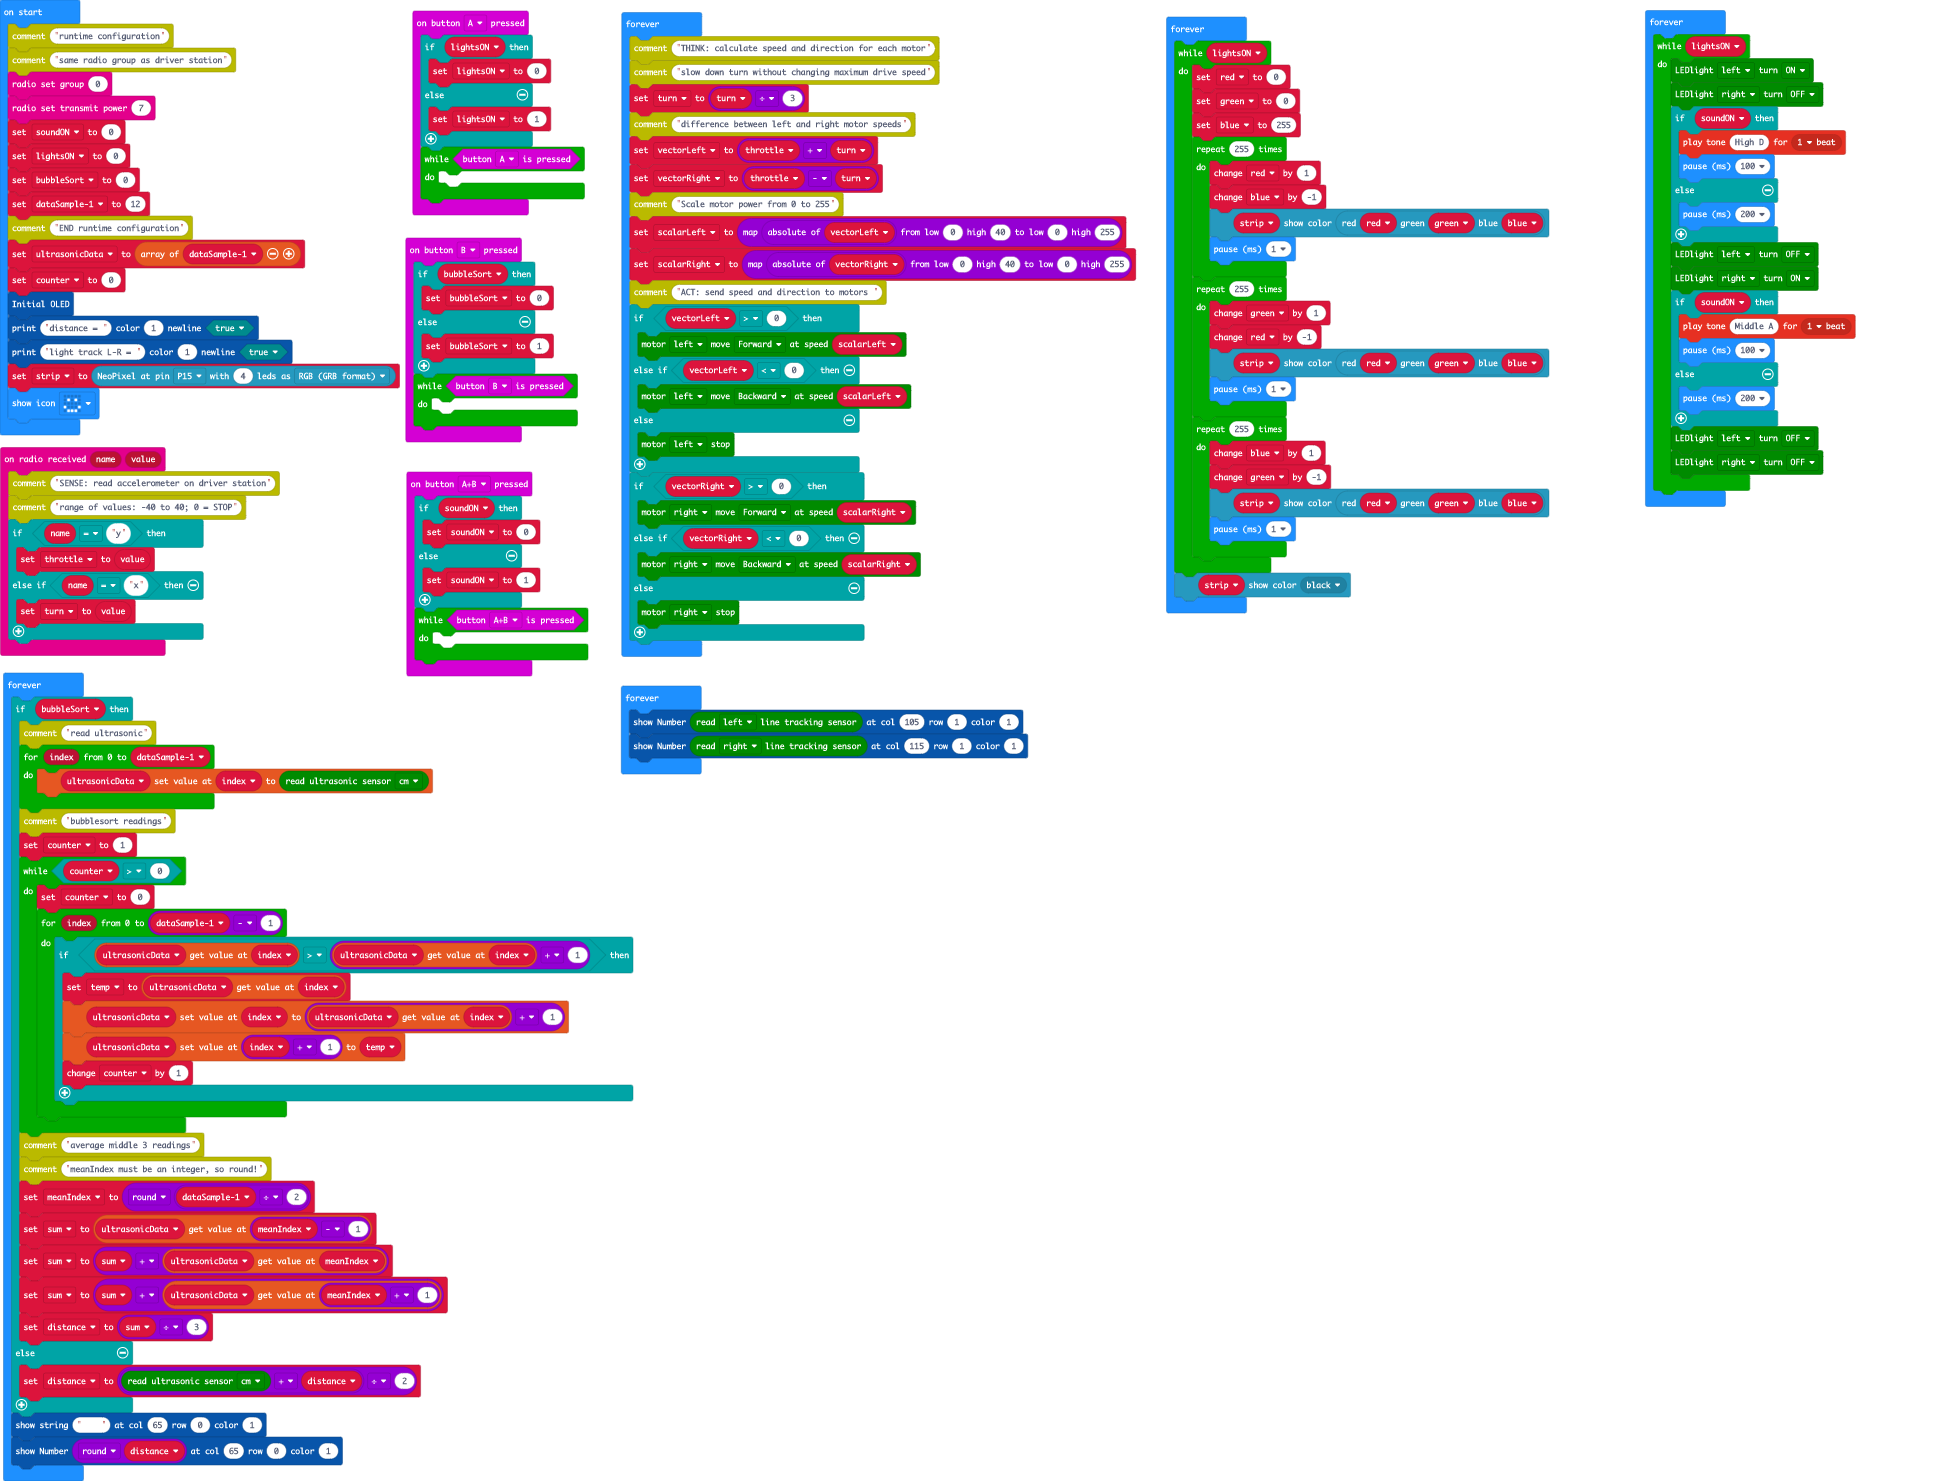
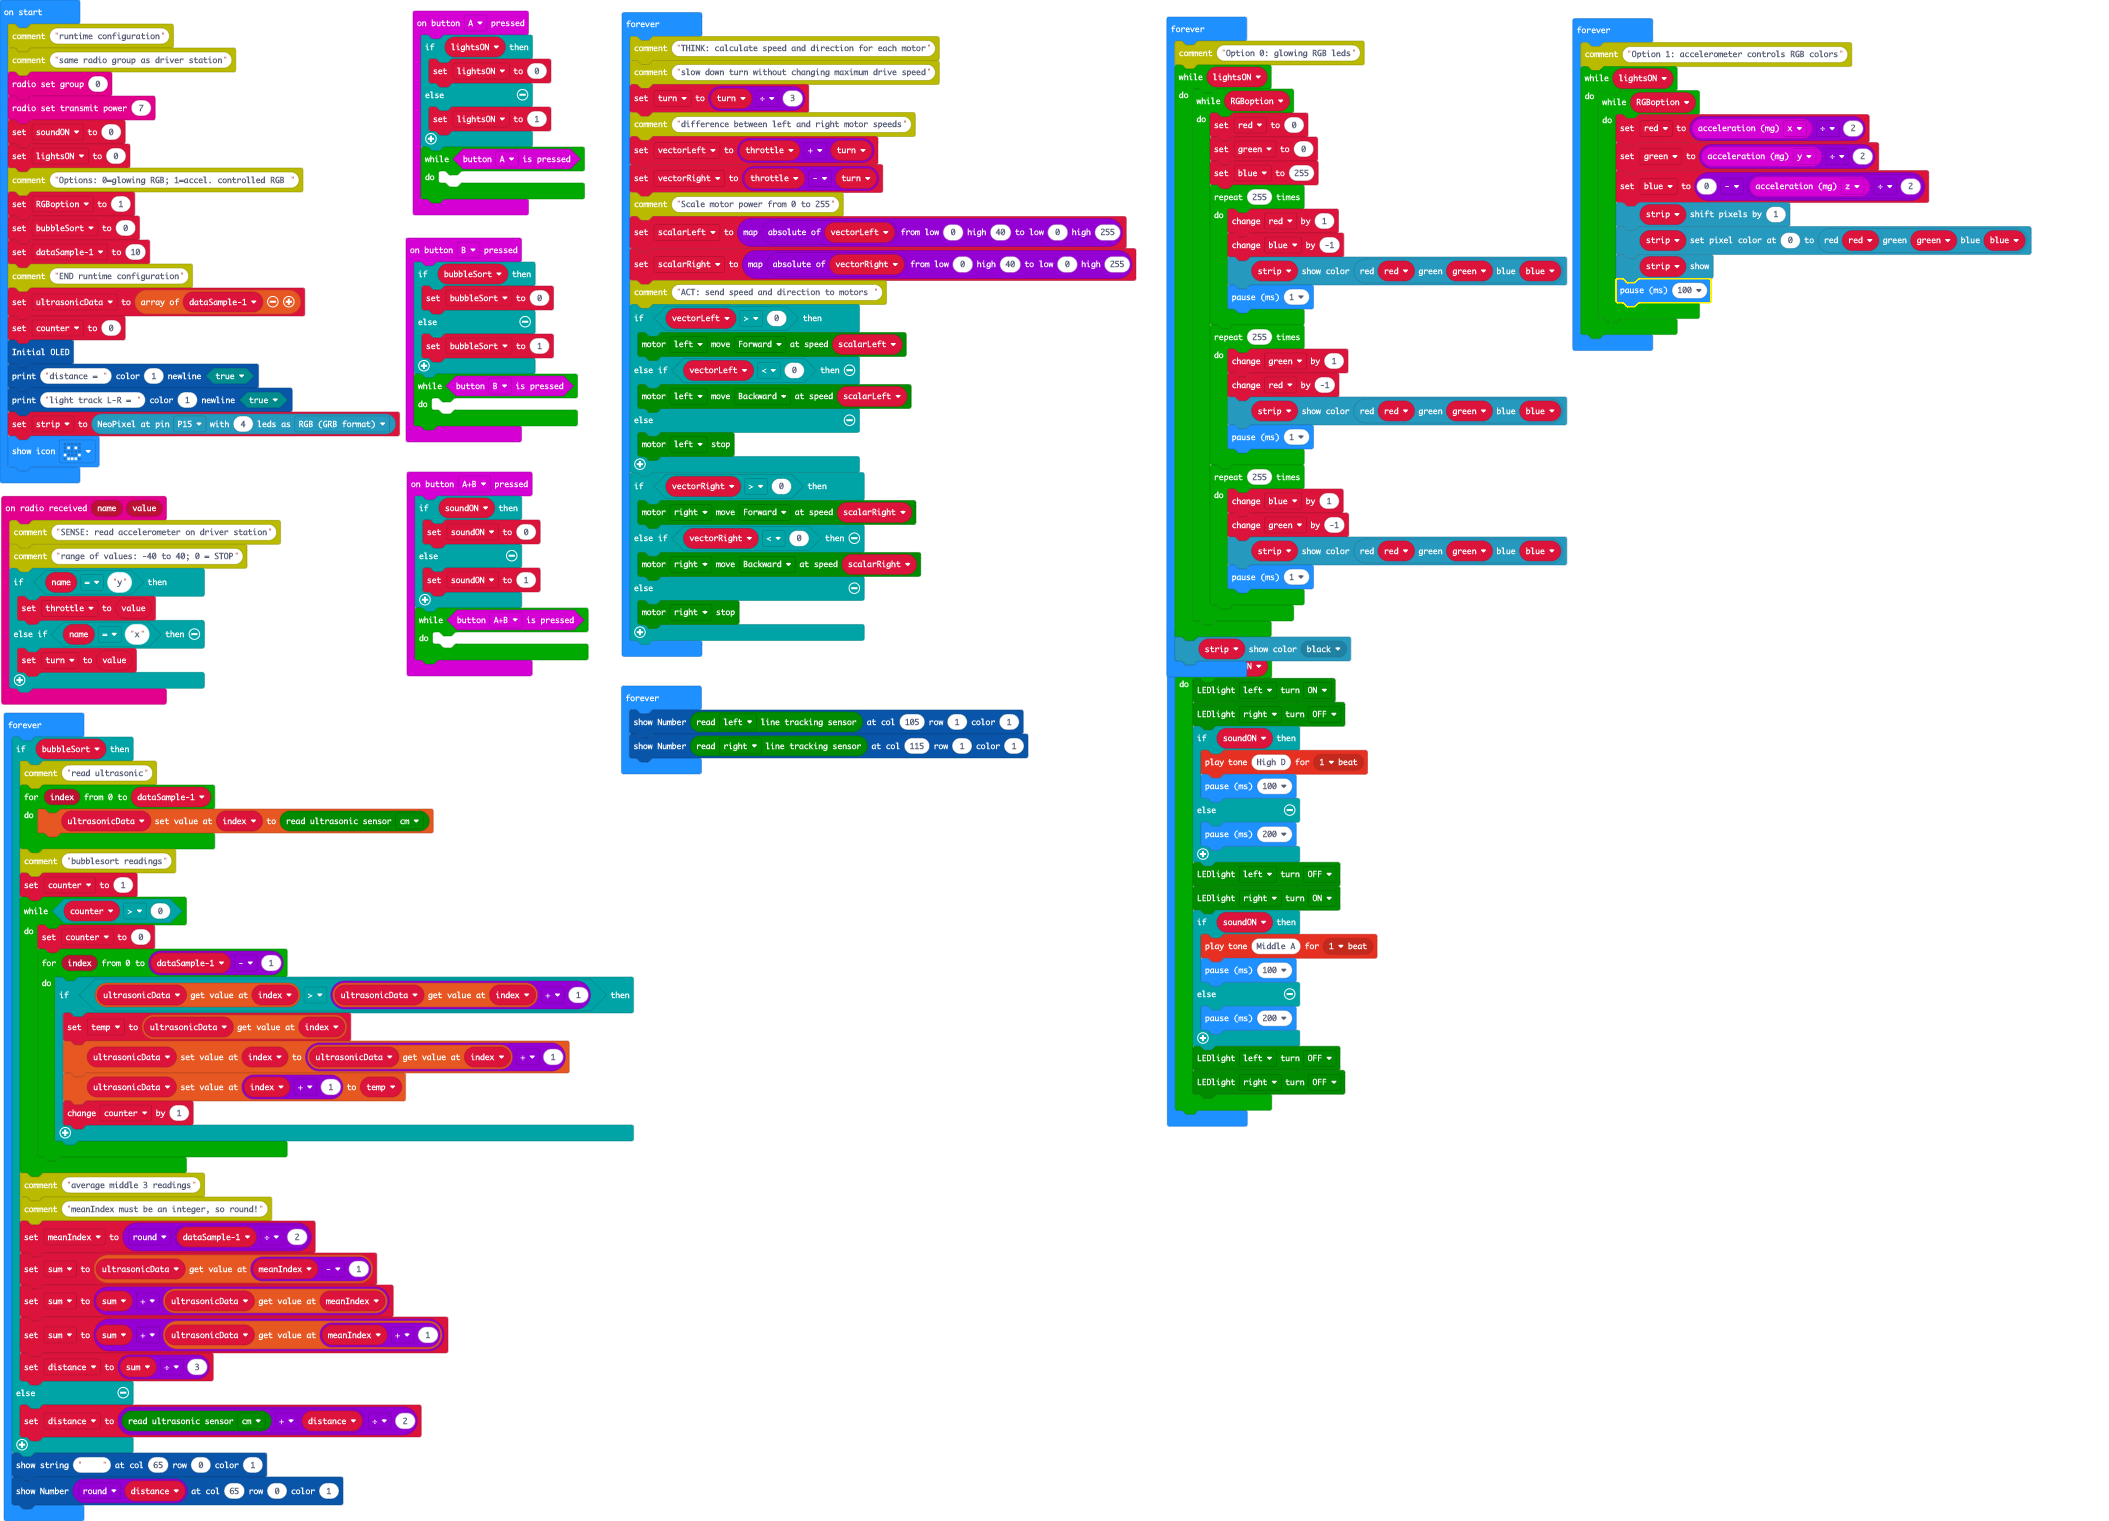
Update main.blocks, main.ts

diff --git a/main.ts b/main.ts
@@ -59,8 +59,10 @@ radio.setGroup(0)
 radio.setTransmitPower(7)
 soundON = 0
 lightsON = 0
+comment.comment("Options: 0=glowing RGB; 1=accel. controlled RGB ")
+let RGBoption = 1
 bubbleSort = 0
-let dataSample1 = 12
+let dataSample1 = 10
 comment.comment("END runtime configuration")
 let ultrasonicData = [dataSample1]
 let counter = 0
@@ -96,30 +98,47 @@ basic.forever(function () {
     }
 })
 basic.forever(function () {
+    comment.comment("Option 0: glowing RGB leds")
     while (lightsON) {
-        red = 0
-        green = 0
-        blue = 255
-        for (let index = 0; index < 255; index++) {
-            red += 1
-            blue += -1
-            strip.showColor(neopixel.rgb(red, green, blue))
-            basic.pause(1)
-        }
-        for (let index = 0; index < 255; index++) {
-            green += 1
-            red += -1
-            strip.showColor(neopixel.rgb(red, green, blue))
-            basic.pause(1)
-        }
-        for (let index = 0; index < 255; index++) {
-            blue += 1
-            green += -1
-            strip.showColor(neopixel.rgb(red, green, blue))
-            basic.pause(1)
+        while (RGBoption) {
+            red = 0
+            green = 0
+            blue = 255
+            for (let index = 0; index < 255; index++) {
+                red += 1
+                blue += -1
+                strip.showColor(neopixel.rgb(red, green, blue))
+                basic.pause(1)
+            }
+            for (let index = 0; index < 255; index++) {
+                green += 1
+                red += -1
+                strip.showColor(neopixel.rgb(red, green, blue))
+                basic.pause(1)
+            }
+            for (let index = 0; index < 255; index++) {
+                blue += 1
+                green += -1
+                strip.showColor(neopixel.rgb(red, green, blue))
+                basic.pause(1)
+            }
         }
     }
     strip.showColor(neopixel.colors(NeoPixelColors.Black))
+})
+basic.forever(function () {
+    comment.comment("Option 1: accelerometer controls RGB colors")
+    while (lightsON) {
+        while (RGBoption) {
+            red = input.acceleration(Dimension.X) / 2
+            green = input.acceleration(Dimension.Y) / 2
+            blue = 0 - input.acceleration(Dimension.Z) / 2
+            strip.shift(1)
+            strip.setPixelColor(0, neopixel.rgb(red, green, blue))
+            strip.show()
+            basic.pause(100)
+        }
+    }
 })
 basic.forever(function () {
     while (lightsON) {
